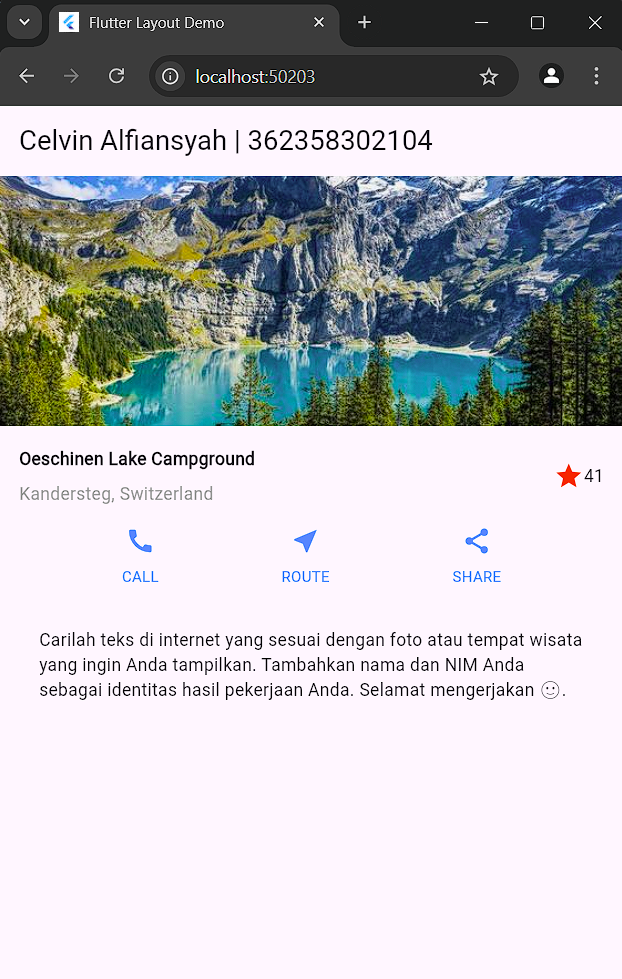
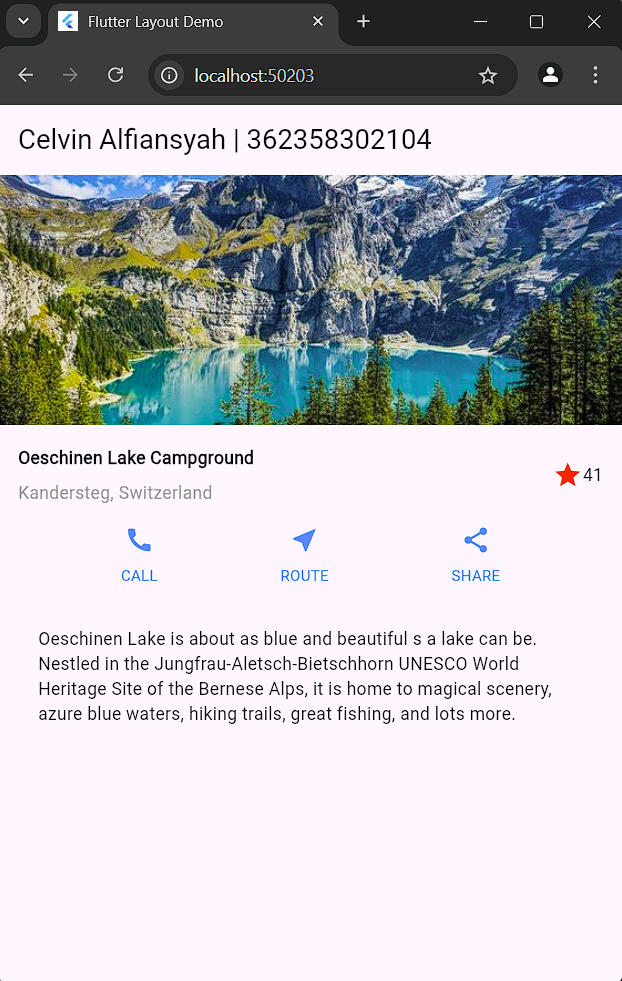
layout

diff --git a/lib/main.dart b/lib/main.dart
@@ -58,12 +58,12 @@ class MyApp extends StatelessWidget {
     Widget textSection = Container(
       padding: const EdgeInsets.all(32),
       child: const Text(
-        'Carilah teks di internet yang sesuai '
-        'dengan foto atau tempat wisata yang ingin '
-        'Anda tampilkan. '
-        'Tambahkan nama dan NIM Anda sebagai '
-        'identitas hasil pekerjaan Anda. '
-        'Selamat mengerjakan 🙂.',
+        'Oeschinen Lake is about as blue and beautiful '
+        's a lake can be. Nestled in the Jungfrau-Aletsch-Bietschhorn '
+        'UNESCO World Heritage Site of the Bernese Alps, '
+        'it is home to magical scenery, '
+        'azure blue waters, hiking trails, '
+        'great fishing, and lots more.',
         softWrap: true,
       ),
     );
